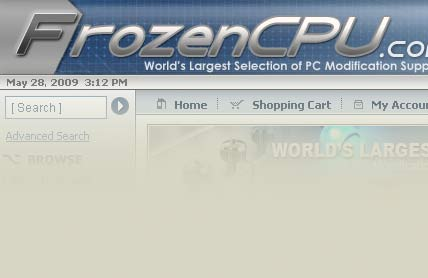
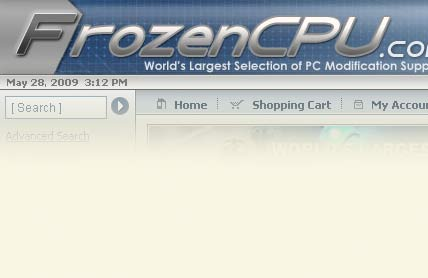
- added default behaviour of not showing div to compose - added some new images - changed front page - moved slideshow,.. to components

diff --git a/catalog/static/style/content.css b/catalog/static/style/content.css
@@ -1,5 +1,7 @@
 
 /* CONTENT PAGE HEADER DEFINITION */
+
+/* CONTENT PAGE HEADER DEFINITION */
 BODY{
 	/*font-family: 'Trebuchet MS', trebuchet, sans-serif;*/
 	font-family: Arial, Helvetica, sans-serif;
@@ -8,7 +10,6 @@ BODY{
 	font-style: normal;
 	margin: 0 0 0 0;
 	padding: 0 0 0 0;
-	background: url(header-back-front.gif) top repeat-x; 
 	text-align: justify;
 }
 
@@ -56,19 +57,17 @@ tr,td {
 }
 
 #logo{
-	width: 196px;
+	width: 322px;
 	height: 88px;
 	float: left;
 	padding: 0;
-	margin: 18px; 
+	margin: 16px 0 0 0; 
 }
 
 #header{
-	width: 900px;
-	height: 420px;
+	width: 980px;
 	position: relative;
 	margin-right: auto;
-	background:url("home-back.jpg") no-repeat right top;
 	margin-left: auto;
 	padding: 0;
 }
@@ -76,8 +75,8 @@ tr,td {
 #casestudy {
 	color: #f2ebc7;
 	float: right;
-	margin-right: 68px;
-	margin-top: 59px;
+	margin: 0 0 0 0;
+	padding: 0 67px 0 0;
 	z-index: 0;
 	width: 428px;
 	height: 278px;
@@ -86,7 +85,8 @@ tr,td {
 
 #nav {
 	float: right;
-	width:650px;
+	width:600px;
+	height: 88px;
 	position: relative;
 	vertical-align: bottom;
 	padding: 0;
@@ -117,7 +117,7 @@ tr,td {
 	display:block;
 	left:-14px;
 	background:url("menu_left.gif") no-repeat left top;
-	padding: 7px 5px 3px 12px;
+	padding: 7px 5px 3px 7px;
 	text-decoration:none;
 	color:#f07822;
 	font-size: 16px;
@@ -139,7 +139,7 @@ tr,td {
 #nav li:hover, 
 #nav li:hover a, #nav .selected a, #nav .selected {
 	background-position:100% -42px;
-	color:#353c42;
+	color:Black;
 	}
 
 #nav li:hover a, #nav .selected a {
@@ -147,7 +147,7 @@ tr,td {
 	}
 
 .mainContent {
-	width: 900px;
+	width: 980px;
 	margin: 0 auto;
 }
 
@@ -158,7 +158,7 @@ img {
   position: absolute;
   right: 0;
   bottom: 0;
-  padding: 2px 5px 0 0;
+  padding: 0 71px 0 0;
   color: #353c42;
   width: 415px;
   height: 120px;
@@ -185,24 +185,23 @@ img {
 #header #intro {
    font-size: 16px;
 	color: white;
-	height: 198px;
-	width: 300px;
-	padding-left: 25px;
+	height: 220px;
+	margin: 0 0 0 0;
+	padding: 0 0 0 10px;
+	width: 360px;
 	text-align: left;
 	float: left;
 }
 
 #search_box {
-    width: 278px;
     height: 31px;
-    background: url(bg_search_box.gif);
 }
 #search_box #s {
     float: left;
     padding: 0;
     margin: 6px 0 0 6px;
     border: 0;
-    width: 159px;
+    width: 232px;
     background: none;
 }
 #search_box #go {
@@ -261,11 +260,23 @@ clear: both;
 }
 
 .oneThirdGrad {
-	margin: 10px 0 0 0;
-   padding: 3px 17px 10px 17px;
-	width: 243px;
+	margin: 0 0 0 0;
+   padding: 12px 17px 10px 17px;
+	width: 273px;
 	float: left;
 	font-size: 14px;
+}
+
+.leftmenu {
+				background:url(leftback.jpg) repeat-y left top;
+}
+
+.leftmenu li a {
+	font-weight: bold;
+}
+
+.leftmenu li li a {
+	font-weight: normal;
 }
 
 .oneThirdClean {
@@ -325,7 +336,7 @@ clear: both;
 }
 
 #banner{
-	text-align: center;
+	text-align: left;
 }
 
 #footer ul {
@@ -398,50 +409,42 @@ This part is completely reusable
   border-top: 1px dotted #595241;
 }
 
-.storitve{
-	padding-top: 20px;
-	padding-left: 24px;
-	width: 245px;
-	height: 360px;
-	background-image: url(box_back.gif);
-}
+/* CRUMBS */
 
-.storitve li{
-	border-bottom: 1px dotted #7D7D7D;
-	list-style-type: none;
-	margin: 0;
-	padding-left: 0px;
-	margin-right: 10px;
-	padding-top: 4px;
-	padding-bottom: 5px;
-}
-
-.storitve ul{
-	margin: 0;
-	padding-left: 0px;
-	padding-bottom: 6px;
-}
-
-.storitve_dodatne .cena{
-	color: #710019;
-	margin-bottom: 20px;
-}
-
-.storitve_dodatne img{
- float: left;
- margin-right: 3px;
- margin-bottom: 30px;
-}
-
-.uvod_storitve {
-	font-size: larger;
-}
-
-.uvod_storitve ul{
-	list-style-type: none;
-}
-
-.uvod_storitve .intro {
-	font-size: 22px;
-	color: #2C7380;
-}
+#crumbs ul, #crumbs li {
+	list-style-type:none;
+	margin:0;
+	}		
+	
+#crumbs {
+	height:2.3em;
+	/*border:1px solid #dedede;*/
+	margin: 0 0 0 0;
+	padding: 0 0 0 13px;
+	}
+	
+#crumbs li {
+	float:left;
+	line-height:18px;
+	color:#777;
+	padding-left:.4em;
+	}		
+	
+#crumbs li a {
+	background:url(crumbs.gif) no-repeat right center;
+	display:block;
+	padding:0 15px 0 0;
+	}			
+					
+#crumbs li a:link,
+#crumbs li a:visited {
+	color:#5C5C3D;
+	text-decoration:underline;
+	}	
+	
+#crumbs a:link, #crumbs a:visited,	
+#crumbs li a:hover,
+#crumbs li a:focus {
+	color:#111B21;
+	text-decoration: underline;
+	}		
